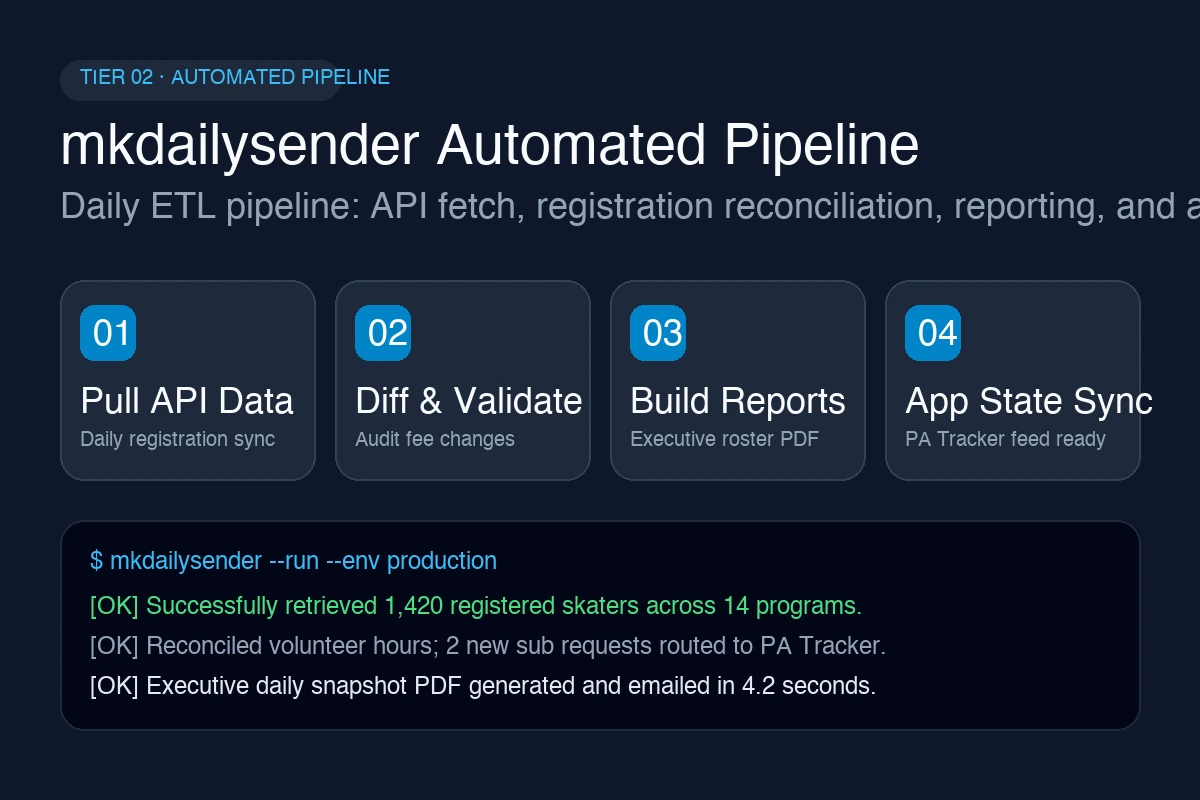
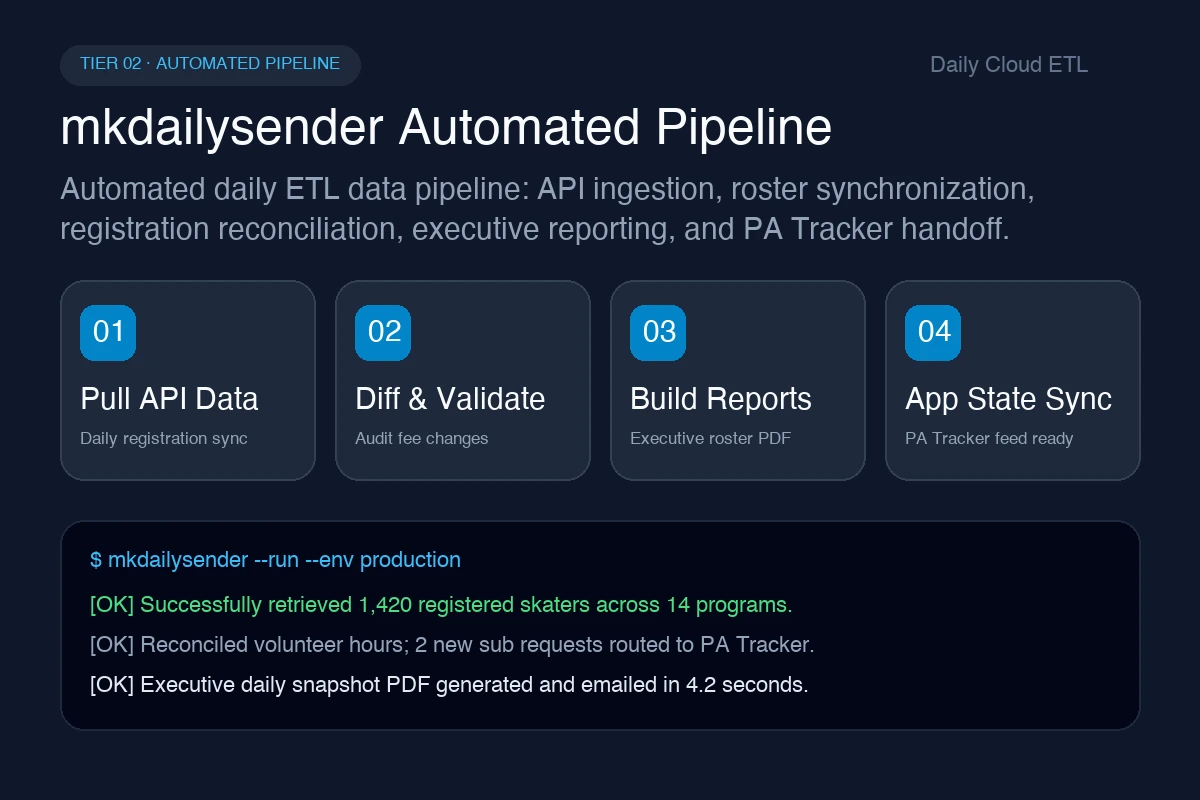
fix(graphics): prevent text overflow on patracker and brand showcase cards

diff --git a/app.js b/app.js
@@ -179,7 +179,7 @@
     ['Ship to production', 'Live URL in days (1–7d Light, 8–14d Medium).', '#FFD23F'],
     ['Write the reflection', 'Every build feeds back into the digital brain.', '#9FD3FF']
   ];
-  const img = k => `v2/s/${k}.webp?v=20261024e`;
+  const img = k => `v2/s/${k}.webp?v=20261024f`;
 
   /* ---------- smooth scroll ---------- */
   const lenis = (!reduce && window.Lenis && innerWidth >= 860 && !matchMedia('(pointer: coarse)').matches) ? new Lenis({ lerp: .09, smoothWheel: true, wheelMultiplier: .9 }) : null;
@@ -2784,7 +2784,7 @@ void main() {
     { name: 'Canadian AI Jobs Report', url: 'github.com/p3ji', href: 'https://github.com/p3ji', img: 'aijobsearch', kind: 'Labour Intelligence · AI', dy: 22, r: 1.3, st: '<span class="stk tape" style="left:35%;top:-14px"></span>' }
   ];
   const brandSec = $('#brand'), brandRow = $('#brandRow'), brandProg = $('#brandProg');
-  brandRow.innerHTML = SITES.map(x => `<a class="site" href="${x.href}" target="_blank" rel="noopener" style="--dy:${x.dy}px;--r:${x.r}deg">${x.st}<div class="win"><div class="chrome"><i></i><i></i><i></i><span>${x.url}</span></div><div class="page"><img src="v2/b/${x.img}.webp" alt="${x.name} website home page" loading="lazy"></div></div><div class="cap"><b>${x.name}</b><span>${x.kind} · visit ↗</span></div></a>`).join('');
+  brandRow.innerHTML = SITES.map(x => `<a class="site" href="${x.href}" target="_blank" rel="noopener" style="--dy:${x.dy}px;--r:${x.r}deg">${x.st}<div class="win"><div class="chrome"><i></i><i></i><i></i><span>${x.url}</span></div><div class="page"><img src="v2/b/${x.img}.webp?v=20261024f" alt="${x.name} website home page" loading="lazy"></div></div><div class="cap"><b>${x.name}</b><span>${x.kind} · visit ↗</span></div></a>`).join('');
   let bTop = 0, bRange = 1, bShift = 0;
   let bManual = false;
   function layoutBrand() {

diff --git a/index.html b/index.html
@@ -16,7 +16,7 @@
 <link rel="preconnect" href="https://fonts.googleapis.com">
 <link rel="preconnect" href="https://fonts.gstatic.com" crossorigin>
 <link rel="stylesheet" href="https://fonts.googleapis.com/css2?family=Bricolage+Grotesque:opsz,wght@12..96,400;12..96,500;12..96,600;12..96,700;12..96,800&family=Geist:wght@400;600&family=Gaegu:wght@400;700&family=Anton&family=Mrs+Saint+Delafield&display=swap">
-<link rel="stylesheet" href="styles.css?v=20261024e">
+<link rel="stylesheet" href="styles.css?v=20261024f">
 
 <script>(() => { let t = null; try { t = localStorage.getItem('jc-theme'); } catch (_) {} document.documentElement.dataset.theme = t || (matchMedia('(prefers-color-scheme: dark)').matches ? 'dark' : 'light'); })();</script>
 <header class="bar">
@@ -542,6 +542,6 @@
 </main>
 
 <script src="https://cdn.jsdelivr.net/npm/lenis@1.1.13/dist/lenis.min.js"></script>
-<script src="app.js?v=20261024e"></script>
+<script src="app.js?v=20261024f"></script>
 <!-- In-app visual review widget (dev mode) -->
 <script src="/agent-feedback.js"></script>

diff --git a/feedback.md b/feedback.md
@@ -4,6 +4,13 @@
 <!-- Use the in-app Review widget to drop pins and save changes here -->
 
 ## Resolved
+- [x] **Item #56 (2026-10-24)** (`div.win > div.page:nth-of-type(2) > img` with `src: "v2/b/patracker.webp"`)
+  - **Requested Change**: Fix graphics as text flows off.
+  - **Resolution**:
+    1) Fixed text overflow in [v2/b/patracker.webp](file:///Users/pushp/Documents/Projects/visualportfolio/v2/b/patracker.webp): reformatted headline and subtitle into two clean, properly wrapped lines with generous horizontal margins (>100px padding from edges), streamlined stat labels, and refined the volunteer tracking shift cards to eliminate any clipping.
+    2) Also audited and updated companion brand cards [v2/b/mkdaily.webp](file:///Users/pushp/Documents/Projects/visualportfolio/v2/b/mkdaily.webp), [v2/b/paper-diggov.webp](file:///Users/pushp/Documents/Projects/visualportfolio/v2/b/paper-diggov.webp), and [v2/b/paper-divide.webp](file:///Users/pushp/Documents/Projects/visualportfolio/v2/b/paper-divide.webp) to ensure all abstract and subtitle lines maintain >120px right margin boundaries.
+    3) Appended cache-busting token `?v=20261024f` to brand showcase image URLs in [app.js](file:///Users/pushp/Documents/Projects/visualportfolio/app.js) and asset references in [index.html](file:///Users/pushp/Documents/Projects/visualportfolio/index.html) so browsers render the new graphics immediately.
+
 - [x] **Item #55 (2026-10-24)** (`div.jc-in > div.jc-bd:nth-of-type(2) > h3` and `button.jc-ph:nth-of-type(2) > span.ph > img`)
   - **Requested Change**:
     1) Update headline in Creator card: "Peji Independent Digital Practice & Seeking new challenges to make an impact."
